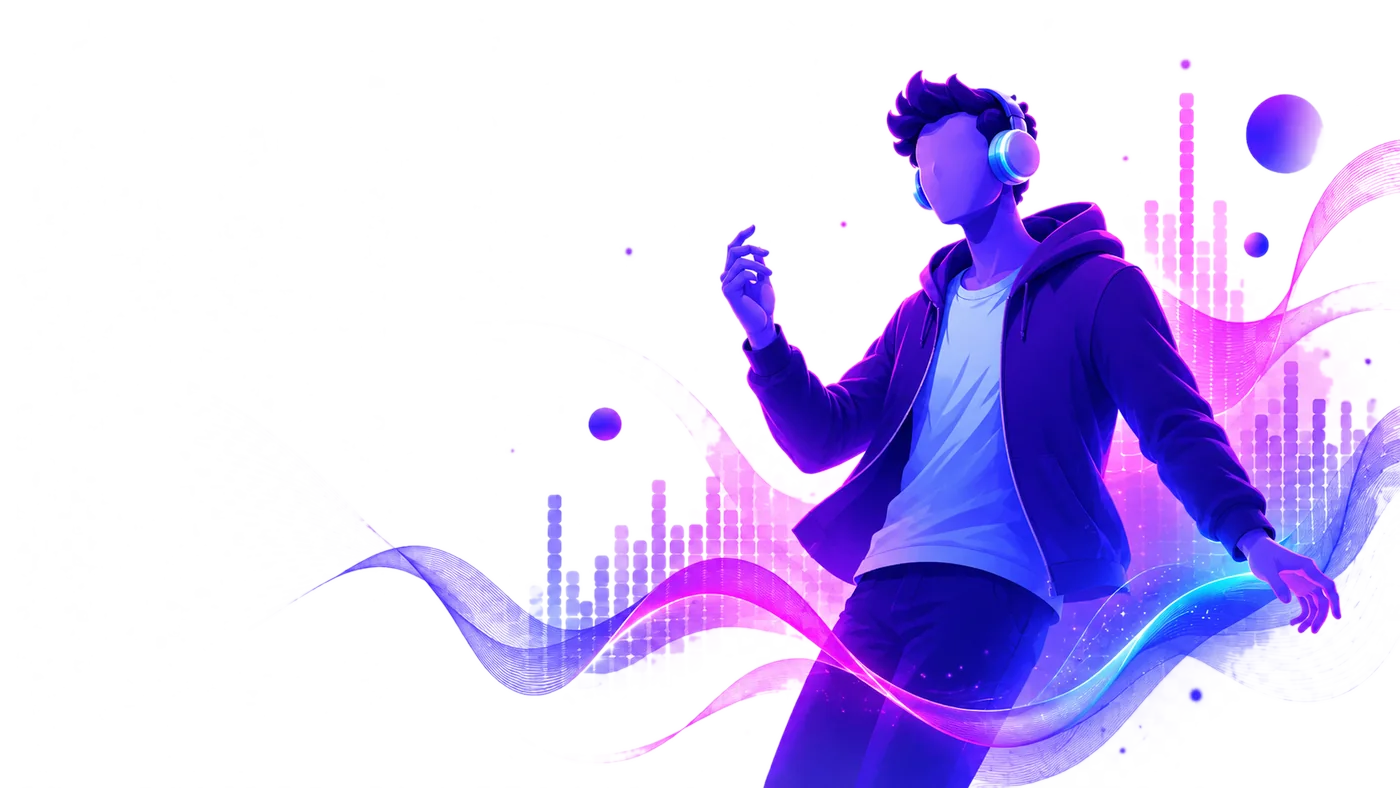
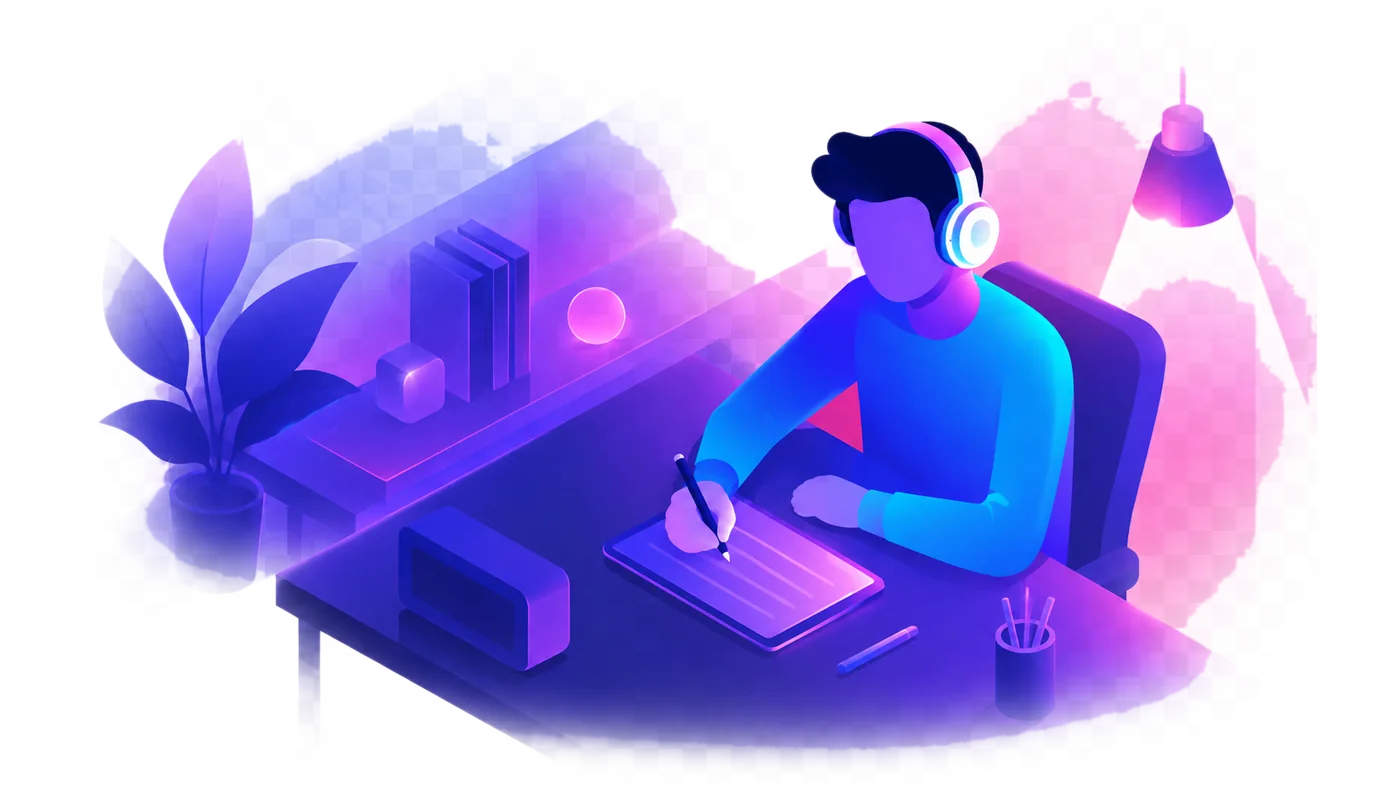
Swap hero artwork to isometric scene; make it a subtle faded backdrop
- Replace hero-listener.webp with the new isometric desk/headphones scene
  (white background keyed out, optimized to ~145KB)
- HeroArtwork now recedes: low opacity with radial + edge gradients so it
  dissolves softly into the background; hero text/cards back to centered

diff --git a/src/App.jsx b/src/App.jsx
@@ -1424,15 +1424,16 @@ function HeroArtwork() {
       <div className="absolute inset-y-0 right-0 flex items-center justify-end">
         <img
           alt=""
-          className="h-[48vh] w-auto max-h-[788px] max-w-none animate-fade-in opacity-40 sm:h-[80vh] sm:opacity-100"
+          className="h-[44vh] w-auto max-h-[760px] max-w-none animate-fade-in opacity-[0.18] sm:h-[72vh] sm:opacity-[0.38]"
           src={heroListener}
           style={{ animationDelay: "120ms" }}
         />
       </div>
-      {/* fade the left/text side and the edges out to black */}
-      <div className="absolute inset-0 bg-[linear-gradient(90deg,#05060f_0%,rgba(5,6,15,0.97)_22%,rgba(5,6,15,0.55)_48%,transparent_78%)]" />
-      <div className="absolute inset-x-0 bottom-0 h-40 bg-gradient-to-t from-[#05060f] to-transparent" />
-      <div className="absolute inset-x-0 top-0 h-20 bg-gradient-to-b from-[#05060f] to-transparent" />
+      {/* dissolve the artwork softly into the background on every edge */}
+      <div className="absolute inset-0 bg-[radial-gradient(68%_78%_at_72%_48%,transparent_26%,rgba(5,6,15,0.65)_70%,#05060f_100%)]" />
+      <div className="absolute inset-0 bg-[linear-gradient(90deg,#05060f_0%,rgba(5,6,15,0.82)_26%,transparent_70%)]" />
+      <div className="absolute inset-x-0 bottom-0 h-52 bg-gradient-to-t from-[#05060f] to-transparent" />
+      <div className="absolute inset-x-0 top-0 h-28 bg-gradient-to-b from-[#05060f] to-transparent" />
     </div>
   );
 }
@@ -1694,7 +1695,7 @@ function SetupScreen({
             : physiology.error || "Optional: connect a BLE ECG/heart-rate sensor.";
 
   return (
-    <div className="relative z-10 mx-auto flex min-h-screen w-full max-w-6xl flex-col justify-center gap-12 px-4 py-12 sm:px-6">
+    <div className="relative z-10 mx-auto flex min-h-screen w-full max-w-5xl flex-col justify-center gap-12 px-4 py-12 sm:px-6">
       {/* mood-tinted ambient glow that follows the active mood — two breathing
           layers so the hue keeps radiating outward behind the headline */}
       <div
@@ -1717,12 +1718,12 @@ function SetupScreen({
 
       <HeroArtwork />
 
-      <div className="relative z-10 flex flex-col items-center gap-8 text-center lg:items-start lg:text-left">
+      <div className="relative z-10 flex flex-col items-center gap-8 text-center">
         <div className="animate-rise-up">
           <BrandMark compact />
         </div>
         <div>
-          <h1 className="mx-auto max-w-2xl text-4xl font-bold leading-[1.04] tracking-tight text-white sm:text-6xl lg:mx-0 lg:max-w-xl lg:text-7xl">
+          <h1 className="mx-auto max-w-4xl text-4xl font-bold leading-[1.04] tracking-tight text-white sm:text-7xl lg:text-8xl">
             <span className="block animate-rise-up" style={{ animationDelay: "150ms" }}>
               Music tuned
             </span>
@@ -1755,7 +1756,7 @@ function SetupScreen({
       </div>
 
       <div
-        className="mx-auto grid w-full max-w-2xl animate-rise-up gap-3 lg:mx-0"
+        className="mx-auto grid w-full max-w-2xl animate-rise-up gap-3"
         style={{ animationDelay: "720ms" }}
       >
         <SetupStep complete={spotifyStepComplete} index={1} title="Connect Spotify">
@@ -1824,7 +1825,7 @@ function SetupScreen({
       </div>
 
       <div
-        className="mx-auto flex w-full max-w-2xl animate-rise-up flex-col items-center gap-4 lg:mx-0 lg:items-start"
+        className="flex animate-rise-up flex-col items-center gap-4"
         style={{ animationDelay: "880ms" }}
       >
         <PrimaryButton className="w-full sm:w-auto sm:min-w-64" disabled={!setupReady} onClick={onStart}>